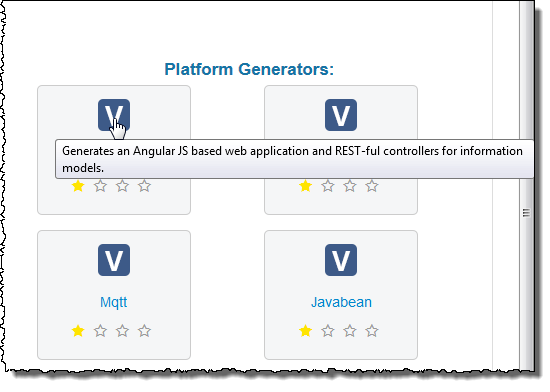
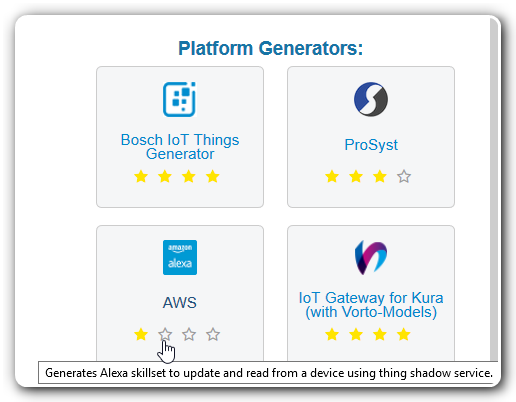
Refactored images

diff --git a/documentation/appendix/releasenotes/0.9.x.html b/documentation/appendix/releasenotes/0.9.x.html
@@ -356,7 +356,7 @@
   
     <li  >
       
-        <a href="../../../documentation/code-generators/example-codegenerators.html">Example Code Generators</a>
+        <a href="../../../documentation/code-generators/vorto-codegenerators.html">Vorto Code Generators</a>
       
 
     </li>
@@ -858,7 +858,7 @@ Here are some of the major highlights:</p>
   <li><strong>Eclipse IoT Toolset</strong> that lets you describe the characteristics and functionalities of devices as Information Models</li>
   <li><strong>Information Model Repository</strong>, acting as a device description dictionary to lookup and find device cababilities by various criteria</li>
   <li><strong>Generator API</strong> that lets you define the translation rules from Information Models into executable, IoT platform specific source code</li>
-  <li>Many <strong>Example Code Generators</strong> to inspire you to build your own generator as well as illustrate the usage to build an IoT Application.</li>
+  <li>Many <strong>Code Generators</strong> to inspire you to build your own generator as well as illustrate the usage to build an IoT Application.</li>
   <li><strong>Command Line Interface</strong> that lets you lookup, find and publish information models as well as generate code for a selected IoT platform</li>
 </ul>
 
@@ -878,9 +878,9 @@ Here are some of the major highlights:</p>
 
 <p>Vorto Code Generators convert an Information Model into executable IoT platform specific source code. The <strong>Generator API</strong> lets you plug in your own code generator into the toolset. Toolset wizards help you through this process.</p>
 
-<h3 id="example-generators">Example Generators</h3>
+<h3 id="code-generators">Code Generators</h3>
 
-<p>In order to inspire you to build you own generator for your platform, we implemented many <strong>Example Generators</strong>, for example Bosch IoT Things, AWS, ThingWorx and many more. They illustrate the many possibilities of how code generators can be effectively used and act as a blueprint for other generator implementations.</p>
+<p>In order to inspire you to build you own generator for your platform, we implemented many <strong>Code Generators</strong>, for example Bosch IoT Things, AWS, ThingWorx and many more. They illustrate the many possibilities of how code generators can be effectively used and act as a blueprint for other generator implementations.</p>
 
 <p><img src="../../../img/documentation/vorto_repository_generators.png" alt="Generators" width="700px" /></p>
 

diff --git a/index.html b/index.html
@@ -288,7 +288,7 @@ $(document).ready(function(){
  <img class="wow fadeInDown" src="./img/Code_generator_API_icon.png">
  </div>
  <div class="col-lg-3">
- <img class="wow fadeInDown" src="./img/Example_Code_Generators_icon.png">
+ <img class="wow fadeInDown" src="./img/Code_Generators_icon.png">
  </div>
  </div>
  <div class="row">
@@ -302,7 +302,7 @@ $(document).ready(function(){
  <p class="wow fadeInDown"><b>Code Generator API</b></p>
  </div>
  <div class="col-lg-3">
- <p class="wow fadeInDown"><b>Example Code Generators</b></p>
+ <p class="wow fadeInDown"><b>Code Generators</b></p>
  </div>
  </div>
  <br>
@@ -535,9 +535,6 @@ $(document).ready(function(){
 
 
   
-
-
-  
   
   <div class="box">
   
@@ -558,11 +555,14 @@ $(document).ready(function(){
 
     
       <h2 class="box-headline" id="header9">Integrate</h2>
-      <p>Code generators allow <b>Solution developers</b> to create information model based code artifacts that can be employed in specific solutions. Vorto provides wizards supporting the creation of new code generators. Example code generators are also part of the Vorto project.
+      <p>Code generators allow <b>Solution developers</b> to create information model based code artifacts that can be employed in specific solutions. Vorto provides wizards supporting the creation of new code generators.
 </p>
       </div>
   </div>
   <hr class="box-separator">
+  
+
+
   
 
 
@@ -930,9 +930,6 @@ $(document).ready(function(){
    
  
 <!--   -->
-   
- 
-<!--   -->
      <div class="container-fluid wow fadeInDown teamuc">
       <!-- Example row of columns -->
       <div class="row">
@@ -960,6 +957,9 @@ $(document).ready(function(){
     </div> 
     <!-- /container -->
   <!-- -->
+   
+ 
+<!--   -->
    
  
 <!--   -->

diff --git a/documentation/developer-api/testting-code-generator.html b/documentation/developer-api/testting-code-generator.html
@@ -356,7 +356,7 @@
   
     <li  >
       
-        <a href="../../documentation/code-generators/example-codegenerators.html">Example Code Generators</a>
+        <a href="../../documentation/code-generators/vorto-codegenerators.html">Vorto Code Generators</a>
       
 
     </li>
@@ -874,7 +874,7 @@ A new project with name <code>XDK_helloworldgenerator_generated</code> is genera
   <li>Open the file <code>sample.txt</code>, it shows “Hello world from information model XDK !”.</li>
 </ol>
 
-<p>This example code generator is provided for you to understand code generator easier. There are already some predefined code generators included in our code base, please see the list <a href="https://github.com/eclipse/vorto/blob/development/server/generators/Readme.md">here</a>.</p>
+<p>This code generator is provided for you to understand code generator easier. There are already some predefined code generators included in our code base, please see the list <a href="https://github.com/eclipse/vorto/blob/development/server/generators/Readme.md">here</a>.</p>
 
                 </div>
              </div>

diff --git a/documentation/overview/features.html b/documentation/overview/features.html
@@ -356,7 +356,7 @@
   
     <li  >
       
-        <a href="../../documentation/code-generators/example-codegenerators.html">Example Code Generators</a>
+        <a href="../../documentation/code-generators/vorto-codegenerators.html">Vorto Code Generators</a>
       
 
     </li>
@@ -866,7 +866,7 @@
   </li>
   <li>
     <p>Integrate devices into platforms easily with the help of platform specific <strong>code generators</strong>, for example Bosch, AWS, ThingWorx, etc. 
-Many example code generators illustrate the many possibilities of how code generators can be effectively used. They can also be taken as a code reference to implement your own generator with the Generator API.</p>
+Many code generators illustrate the many possibilities of how code generators can be effectively used. They can also be taken as a code reference to implement your own generator with the Generator API.</p>
 
     <p><img src="../../img/documentation/vorto_repository_generators.png" alt="Generators" width="700px" /></p>
   </li>

diff --git a/documentation/code-generators/codegenerators.html b/documentation/code-generators/codegenerators.html
@@ -356,7 +356,7 @@
   
     <li  >
       
-        <a href="../../documentation/code-generators/example-codegenerators.html">Example Code Generators</a>
+        <a href="../../documentation/code-generators/vorto-codegenerators.html">Vorto Code Generators</a>
       
 
     </li>
@@ -855,14 +855,14 @@
 
 <p><a href="#code-generators-overview">Code Generators Overview</a></p>
 
-<p><a href="./example-codegenerators.html">Example Code Generators</a></p>
+<p><a href="./vorto-codegenerators.html">Vorto Code Generators</a></p>
 
 <h2 id="code-generators-overview">Code Generators Overview</h2>
 
 <p>By means of code generators, you can create information model based code artifacts which you can use in specific solutions. There are the following options to get an appropriate code generator:</p>
 
 <ul>
-  <li><a href="./example-codegenerators.html">Example Code Generators</a></li>
+  <li><a href="./vorto-codegenerators.html">Vorto Code Generators</a></li>
 </ul>
 
                 </div>

diff --git a/integrate.html b/integrate.html
@@ -117,7 +117,7 @@
 		<!-- /.container -->
 </nav>
 
-      <p>Code generators allow <b>Solution developers</b> to create information model based code artifacts that can be employed in specific solutions. Vorto provides wizards supporting the creation of new code generators. Example code generators are also part of the Vorto project.</p>
+      <p>Code generators allow <b>Solution developers</b> to create information model based code artifacts that can be employed in specific solutions. Vorto provides wizards supporting the creation of new code generators.</p>
 
     <!-- Footer -->
 <footer>

diff --git a/news/2015-07-08-eclipse-04-release.html b/news/2015-07-08-eclipse-04-release.html
@@ -157,7 +157,7 @@ It features the following core functionality:</p>
 
 <ul>
   <li>A simple Information Model language to define devices with their properties and services</li>
-  <li>Example Code Generators that create platform - specific representations from information models</li>
+  <li>Code Generators that create platform - specific representations from information models</li>
   <li>Information Model Repository that allows you to search and download models from a web-based interface</li>
 </ul>
    

diff --git a/news/index.html b/news/index.html
@@ -590,7 +590,7 @@ It features the following core functionality:</p>
 
 <ul>
   <li>A simple Information Model language to define devices with their properties and services</li>
-  <li>Example Code Generators that create platform - specific representations from information models</li>
+  <li>Code Generators that create platform - specific representations from information models</li>
   <li>Information Model Repository that allows you to search and download models from a web-based interface</li>
 </ul>
 

diff --git a/documentation/vorto-repository/cli-tool/cli-tool-command-summary.html b/documentation/vorto-repository/cli-tool/cli-tool-command-summary.html
@@ -356,7 +356,7 @@
   
     <li  >
       
-        <a href="../../../documentation/code-generators/example-codegenerators.html">Example Code Generators</a>
+        <a href="../../../documentation/code-generators/vorto-codegenerators.html">Vorto Code Generators</a>
       
 
     </li>

diff --git a/documentation/vorto-repository/cli-tool/cli-tool.html b/documentation/vorto-repository/cli-tool/cli-tool.html
@@ -356,7 +356,7 @@
   
     <li  >
       
-        <a href="../../../documentation/code-generators/example-codegenerators.html">Example Code Generators</a>
+        <a href="../../../documentation/code-generators/vorto-codegenerators.html">Vorto Code Generators</a>
       
 
     </li>

diff --git a/documentation/vorto-repository/cli-tool/configuring-cli-tool.html b/documentation/vorto-repository/cli-tool/configuring-cli-tool.html
@@ -356,7 +356,7 @@
   
     <li  >
       
-        <a href="../../../documentation/code-generators/example-codegenerators.html">Example Code Generators</a>
+        <a href="../../../documentation/code-generators/vorto-codegenerators.html">Vorto Code Generators</a>
       
 
     </li>

diff --git a/documentation/vorto-repository/cli-tool/installing-cli-tool.html b/documentation/vorto-repository/cli-tool/installing-cli-tool.html
@@ -356,7 +356,7 @@
   
     <li  >
       
-        <a href="../../../documentation/code-generators/example-codegenerators.html">Example Code Generators</a>
+        <a href="../../../documentation/code-generators/vorto-codegenerators.html">Vorto Code Generators</a>
       
 
     </li>
